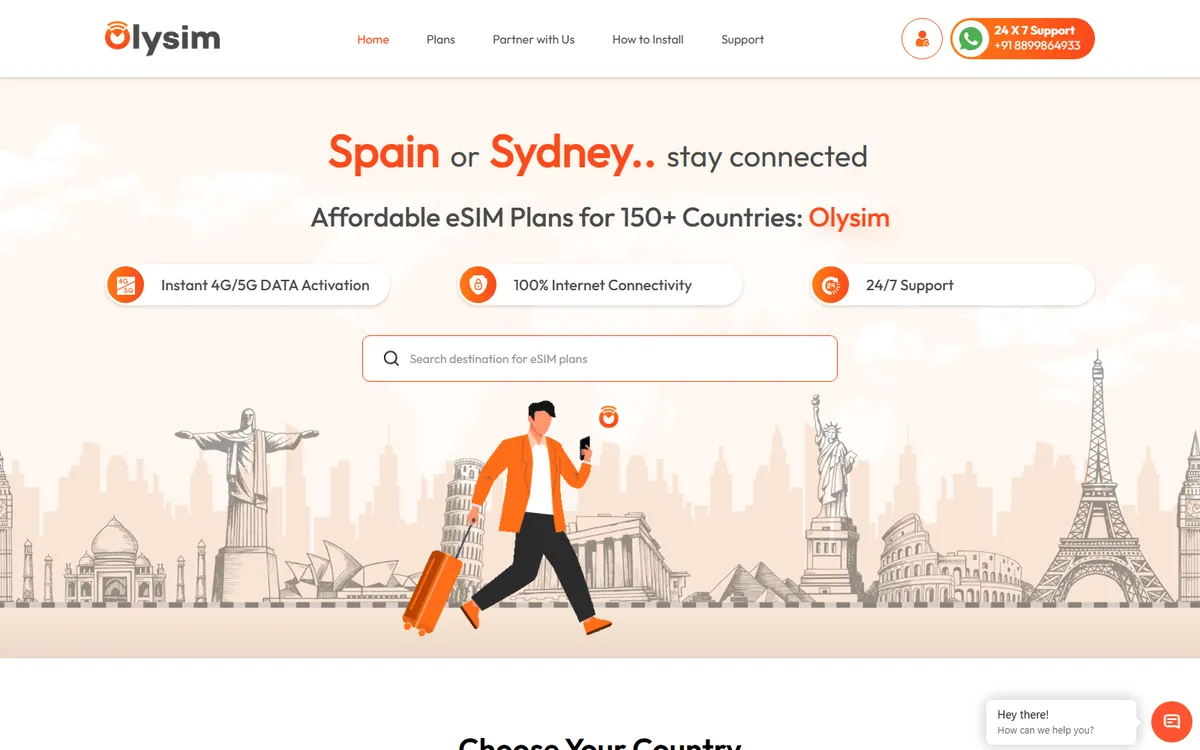
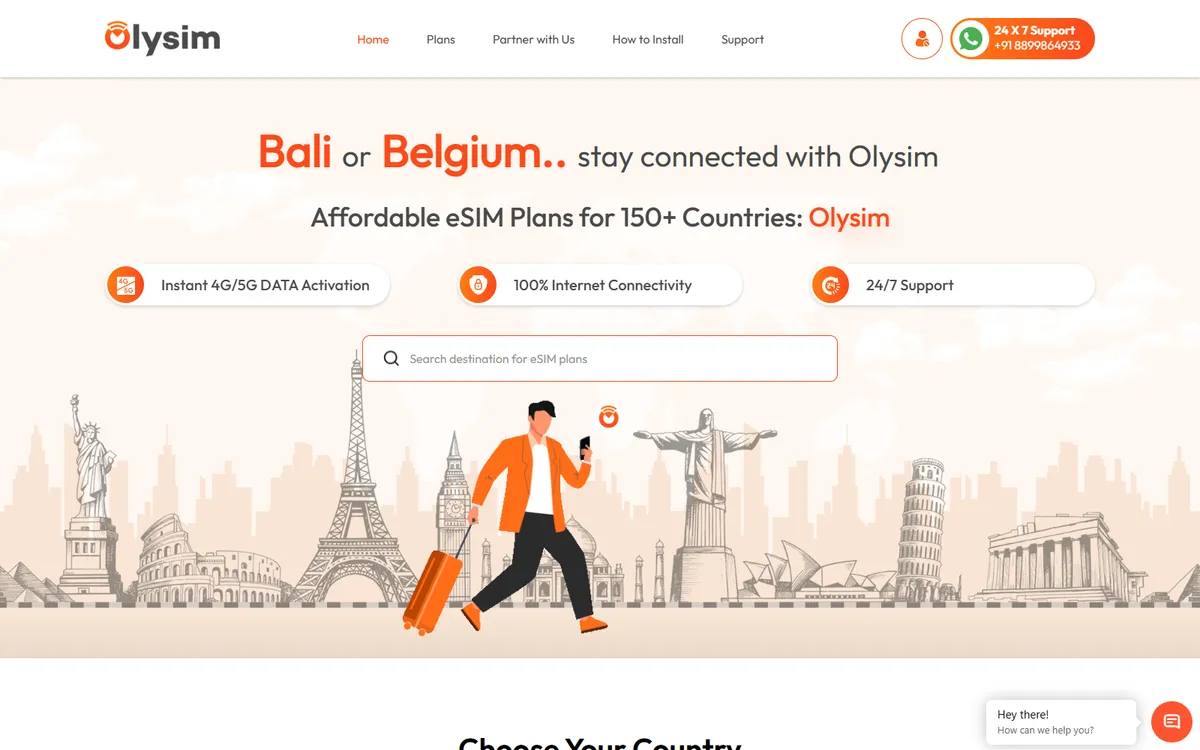
Projects: rewrite WaoSim and OlySim from the codebases
- WaoSim: live app on main.waosim.com (new screenshot), lead frontend
  across the customer site, admin and affiliate apps; payments, social
  login and 2FA, en/ja with USD/JPY, VAPT and payment security work.
- OlySim: two editions (.in INR / .com USD), payments incl. Razorpay,
  PhonePe and UPI, technical SEO across both domains, admin CMS.
- Both are featured wide cards; add Laravel (PHP) to backend skills.

Changed region(s): [[0.0, 0.4907, 1.0, 0.8587], [0.2158, 0.184, 0.7708, 0.2453]]

diff --git a/src/data/profile.ts b/src/data/profile.ts
@@ -263,19 +263,40 @@ export const projects: Project[] = [
   {
     slug: "waosim",
     name: "WaoSim",
-    kind: "Global eSIM purchase platform",
-    url: "https://waosim.com",
-    domain: "waosim.com",
-    role: "Frontend lead",
+    kind: "Global eSIM store · Japan & worldwide",
+    url: "https://main.waosim.com",
+    domain: "main.waosim.com",
+    role: "Lead frontend developer",
     summary:
-      "A global eSIM marketplace for travellers in 50+ countries, with 10+ payment methods and a fully localized checkout.",
+      "An eSIM store for travellers to 190+ destinations, in English and Japanese with USD and JPY pricing. I set up and led three Next.js apps from the first commit: the customer site, the admin panel and the affiliate portal.",
     highlights: [
-      "Led the frontend team and integrated Stripe, PayPal, Apple Pay, Google Pay and Alipay.",
-      "Built 2FA (TOTP), affiliate tracking, multi-language support, dynamic currency switching and push notifications.",
-      "Closed every finding from the VAPT security audit.",
+      "Checkout with Stripe cards, Apple Pay, Google Pay, PayPal, PayPay and Amazon Pay, plus wallet and split payments.",
+      "Sign-in with Google, Apple, Yahoo and LINE, and two-factor auth by SMS, email or an authenticator app.",
+      "eSIM QR install and sharing, top-ups, referrals, WaoClub rewards and live order status with Firebase.",
+      "Fixed all VAPT findings and hardened payments with security headers, HTML sanitization and rate limiting.",
+      "Admin dashboards with GA4 analytics and sales reports, and an affiliate portal with deep-link referral sharing.",
     ],
-    tech: ["Next.js", "TypeScript", "SCSS", "Firebase", "Stripe"],
-    image: null, // TODO: add screenshot; live site currently shows a "coming soon" page
+    tech: ["Next.js 15", "TypeScript", "SCSS", "MUI", "Firebase", "Stripe", "i18next"],
+    image: "/images/projects/waosim.webp",
+    featured: true,
+  },
+  {
+    slug: "olysim",
+    name: "OlySim",
+    kind: "eSIM store · India & global",
+    url: "https://olysim.com",
+    domain: "olysim.com",
+    role: "Lead web & SEO developer",
+    summary:
+      "An eSIM and travel SIM store for 200+ destinations, run as two editions: olysim.in for India in INR and olysim.com for global travellers in USD. I'm the top contributor on the customer website and own its SEO.",
+    highlights: [
+      "Destination pages, checkout for new eSIMs, top-ups and physical SIMs, accounts, wallet and a loyalty program.",
+      "Payments with Stripe (cards, Apple Pay, Google Pay), PayPal, Razorpay, PhonePe and UPI, with currency and GST set per domain.",
+      "Technical SEO across both domains: server rendering, hreflang, canonical redirects, sitemaps, IndexNow and rich JSON-LD.",
+      "Admin CMS with AI-assisted blog writing and per-destination SEO and FAQs, plus work on the B2B distributor portal and Laravel API.",
+    ],
+    tech: ["Next.js 15", "TypeScript", "SCSS", "Bootstrap", "next-seo", "Stripe", "Razorpay", "Laravel"],
+    image: "/images/projects/olysim.webp",
     featured: true,
   },
   {
@@ -327,22 +348,6 @@ export const projects: Project[] = [
     image: null, // TODO: add screenshot; platform is behind employee SSO login
   },
   {
-    slug: "olysim",
-    name: "OlySim",
-    kind: "India eSIM purchase platform",
-    url: "https://olysim.com",
-    domain: "olysim.com",
-    role: "Frontend lead",
-    summary:
-      "India-focused eSIM platform covering browsing, checkout and account flows with UPI, card and wallet payments.",
-    highlights: [
-      "Led the full frontend with a strong focus on SEO and conversion.",
-      "CKEditor-based content management for plans and pages.",
-    ],
-    tech: ["Next.js", "TypeScript", "SCSS", "CKEditor"],
-    image: "/images/projects/olysim.webp",
-  },
-  {
     slug: "mentalhappy",
     name: "MentalHappy",
     kind: "Mental health & wellness platform · USA",
@@ -360,7 +365,7 @@ export const projects: Project[] = [
   },
 ];
 
-/** Shown highlighted inside the skill groups — the stack recruiters should notice first. */
+/** Shown highlighted inside the skill groups: the stack recruiters should notice first. */
 export const coreSkills = [
   "Next.js", "React", "TypeScript", "Node.js", "NestJS", "MySQL", "PostgreSQL",
   "AWS", "Flutter", "Claude Code", "Team leadership", "Client communication",
@@ -373,7 +378,7 @@ export const skillGroups = [
   },
   {
     title: "Backend & APIs",
-    items: ["Node.js", "NestJS", "Express", "REST APIs", "Swagger / OpenAPI", "JWT & Passport auth", "2FA (TOTP)", "Socket.IO (real-time)", "Email (SendGrid)"],
+    items: ["Node.js", "NestJS", "Express", "Laravel (PHP)", "REST APIs", "Swagger / OpenAPI", "JWT & Passport auth", "2FA (TOTP)", "Socket.IO (real-time)", "Email (SendGrid)"],
   },
   {
     title: "Databases",

diff --git a/src/components/sections/Projects.tsx b/src/components/sections/Projects.tsx
@@ -97,7 +97,7 @@ function Card({ project, layout = "card", label }: { project: Project; layout?: 
 }
 
 export function Projects() {
-  const featured = projects.find((p) => p.featured);
+  const featured = projects.filter((p) => p.featured);
   const rest = projects.filter((p) => !p.featured);
   // Last project closes the section as a wide card (image on the right) so the grid never leaves an orphan.
   const closing = rest.length % 2 === 1 ? rest[rest.length - 1] : undefined;
@@ -116,11 +116,11 @@ export function Projects() {
       intro={sections.projects.intro}
     >
       <div className="grid gap-5 md:gap-6">
-        {featured ? (
-          <Reveal>
-            <Card project={featured} layout="wide" label="Featured" />
+        {featured.map((p, i) => (
+          <Reveal key={p.slug}>
+            <Card project={p} layout={i % 2 === 0 ? "wide" : "wide-reverse"} label="Featured" />
           </Reveal>
-        ) : null}
+        ))}
         <div className="grid gap-5 sm:grid-cols-2 md:gap-6">
           {grid.map((p, i) => (
             <Reveal key={p.slug} delay={0.06 * (i % 2)}>
